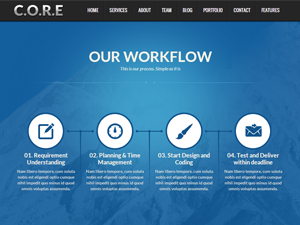
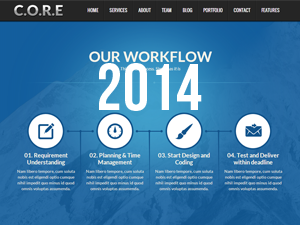
mix
meta property for facebook index;
responsive view;
menu style changes;
home page test template;

Changed region(s): [[0.33, 0.28, 0.69, 0.4978]]

diff --git a/style.css b/style.css
@@ -1,5 +1,5 @@
 /*
-Theme Name: Core
+Theme Name: GMIC Beijing 2014
 Theme URI: http://buddhathemes.com/themes/core
 Author: the DesignThemes team
 Author URI: http://themeforest.net/user/designthemes
@@ -48,7 +48,7 @@ Text Domain: core
 	#home h5 a {color:#fff;}
 	#home h5 a:hover {color: #e96666;}
 	#home .main-title { padding-bottom:30px; margin-bottom:60px; }
-	#home .main-title h2 {font-size:20px;margin-bottom:6px;}
+	#home .main-title h2 {font-size:20px;margin-bottom:6px; display:none;}
 	#home .main-title {margin-top:8px;padding-bottom: 8px;margin-bottom:16px;float:none;}
 	
 	.sub-title { width:100%; padding-bottom:10px; margin-bottom:20px; margin-top:50px; float:left; clear:both; }
@@ -377,7 +377,7 @@ Text Domain: core
 	#main-nav ul { zoom:1; }	
 	#main-nav ul { float:right; margin:0px; padding:0px; }
 	#main-nav ul li { display:inline; float:left; margin:0px; padding:0px 2px 0px 0px; height:55px; background:url(images/menu-splitter.png) right repeat-y; position:relative; }
-	#main-nav ul li a { font-size:14px; line-height:58px; padding:0px 9px; margin:0px; float:left; text-transform:uppercase; color:#ffffff; }
+	#main-nav ul li a { font-size:12px; line-height:58px; padding:0px 9px; margin:0px; float:left; text-transform:uppercase; color:#ffffff; }
 	#main-nav ul li:last-child { background:none; }
 	#main-nav ul li span { transition: all .3s linear; -moz-transition: all .3s linear; -o-transition: all .3s linear; -webkit-transition: all .3s linear; width:0; height:0; border-left:6px solid transparent; border-right:6px solid transparent; position:absolute; left:0; right:0; text-align:center; bottom:0; margin:0 auto;  }
 	#main-nav ul li:hover span { border-bottom:6px solid #1461a2; }
@@ -386,7 +386,8 @@ Text Domain: core
 	#main-nav ul > li.current_page_item:hover > a { color:#ffffff; }
 	#main-nav ul > li:hover > a { color:#1461a2; }
 	#main-nav ul li#menu-item-960 { background-color: #4fc29f; }
-	#main-nav ul li#menu-item-5989 {background-color: #4fc29f;}
+	#main-nav ul li#menu-item-5989 {background-color: #ffc956;}
+	#main-nav ul li#menu-item-5989 a {padding: 0 22px 0 22px; font-size:16px;color:#000;}
 	#main-nav ul li#menu-item-960 a, #main-nav ul li#menu-item-2838 a, #main-nav ul li#menu-item-1805 a { color: #fff; }
 	#main-nav ul li#menu-item-2838 {background-color: #1c879b;}
 	#main-nav ul li#menu-item-1805 {background-color: #317dbe;}
@@ -1138,3 +1139,9 @@ border-top: 0px solid white;
 table.transparent {background-color:transparent; border: 0px;}
 table.transparent td {background-color:transparent; border: 0px; padding:0px;}
 #blog-content .column.one-half.last {width: 420px;padding-left: 30px;}
+.home #media iframe {display:none;}
+#guide #primary a.button {padding-left:0px; padding-right:0px; width:100%; margin:0;} 
+.page-id-6862 #header {display:none;}
+.page-id-6862 #guide .hr-invisible {display:none;}
+.page-id-6862 #guide .main-title {display:none;}
+.page-id-6665 .main-title {display:none;}

diff --git a/responsive.css b/responsive.css
@@ -10,9 +10,12 @@
     @media only screen and (min-width:768px) and (max-width:959px) {
 		
 		.container { width:748px; }
+		#blog-content .column.one-half.last {width:360px; padding:0;}
 		
 		/*----*****---- << Header >> ----*****----*/
 		#main-nav ul li a { padding:0px 10px; font-size:14px; }
+		
+	#main-nav ul li#menu-item-5989 a {padding: 0 8px 0 8px; font-size:14px;}
 		
 		/*----*****---- << Home >> ----*****----*/
 		.rounded-icon span { width:88px; height:88px; max-width:88px; max-height:88px; border-radius:88px; }		
@@ -91,6 +94,8 @@
 		font-size: 11px;
 	}
 	#main-nav {width:74%;}
+	.page-id-6862 #footer {display:none;}
+	.page-id-6862 .content .container {margin-top:0px;}
  }
 
 	/*----*****---- << Mobile (Landscape) >> ----*****----*/	
@@ -327,7 +332,7 @@
 		.mobile-menu { display:block; }
 		#main-nav ul { display:none; }
 		
-		.container { width:200px; }		
+		.container { }		
 		
 		/*----*****---- << Headings >> ----*****----*/
 		.main-title h1, .main-title h2, .sub-title h1, .sub-title h2 { font-size:26px; }	

diff --git a/tpl-home.php b/tpl-home.php
@@ -1,0 +1,146 @@
+<?php /*Template Name: Home Template*/?>
+<?php get_header();?>
+<?php global $mytheme_shadow;
+	  $mytheme_menu = array( "5" => "home", "394" => "speakers", "1836" => "compete-gmic", "940" => "program", "941" => "events", "8" => "media", "1097" => "sponsor", "554" => "register-form");
+	  if(!empty($mytheme_menu)):
+	  foreach( $mytheme_menu as $key => $value ): ?>
+          <?php echo "<!-- ** $value Content** -->";
+          	
+		  
+		  		$current_page_template = get_post_meta($key, '_wp_page_template', true );
+				$mytheme_shadow = false;
+				$bg = "";
+				$pattern="";
+				
+				#Article BG Style
+				$article_bg_type = "";
+				$article_bg_pattern = "";
+				
+				if( $current_page_template == "default" ):
+					$general_settings = get_post_meta($key,'_tpl_default_settings',TRUE);
+					$general_settings = is_array($general_settings) ? $general_settings  : array();
+				
+				elseif( $current_page_template == "tpl-blog.php" ):
+					$general_settings = get_post_meta($key,'_tpl_blog_settings',TRUE);
+					$general_settings = is_array($general_settings) ? $general_settings  : array();
+				
+				elseif( $current_page_template == "tpl-portfolio.php" ):
+					$general_settings = get_post_meta($key,'_tpl_portfolio_settings',TRUE);
+					$general_settings = is_array($general_settings) ? $general_settings  : array();
+				endif;
+				
+				$custom_style = 'style="';
+				
+				#Font Style Settings
+				$set_font = isset( $general_settings['font-settings'] ) ? $general_settings['font-settings'] : NULL;
+				$bg .= isset( $set_font ) ? " custom-font-color " : "";
+				if( $set_font  && isset($general_settings['page-font-color']) ):
+					$custom_style .="color:".$general_settings['page-font-color'];
+				endif;
+				
+				$anchor_colors = "";
+				if( $set_font && isset($general_settings['page-primary-color']) ):
+					$anchor_colors .=  "data-for-primary-color = '".$general_settings['page-primary-color']."'";
+				endif;
+
+				if( $set_font && isset($general_settings['page-secondary-color']) ):
+					$anchor_colors .=  "data-for-secondary-color = '".$general_settings['page-secondary-color']."'";
+				endif;
+
+				if( $set_font && isset($general_settings['page-title-color']) ):
+					$anchor_colors .=  "data-for-title-color = '".$general_settings['page-title-color']."'";
+				endif;
+				
+				
+				#Font Style Settings End
+				
+				
+				#Article BG Style
+				$page_bg_type = isset( $general_settings['page-bg-type'] ) ? $general_settings['page-bg-type'] : NULL;
+				
+				if( $page_bg_type ):
+					if( "bg-patterns" == $page_bg_type ):
+					
+						$page_bg_pattern = isset( $general_settings['page-bg-pattern'] ) ? $general_settings['page-bg-pattern'] : NULL;
+						if( !empty($page_bg_pattern) ):
+							$url = IAMD_FW_URL.'theme_options/images/pattern/bg-patterns/'.$page_bg_pattern;
+							$custom_style .= 'background-image: url('.$url.');';
+							$custom_style .= isset( $general_settings['page-bg-pattern-repeat'] ) ?' background-repeat:'.$general_settings['page-bg-pattern-repeat'].';' : "";
+						endif;
+						
+						if( !array_key_exists('disable-page-bg-pattern-color',$general_settings) && array_key_exists('page-bg-pattern-color',$general_settings) ):
+							$color = hex2rgb( $general_settings['page-bg-pattern-color']);
+							
+							$custom_style .= isset( $general_settings['page-bg-pattern-opacity'] ) ?
+									 " background-color:rgba($color[0],$color[1],$color[2],".$general_settings['page-bg-pattern-opacity'].");" :
+									 " background-color:".$general_settings['page-bg-pattern-color'].";";
+						endif;
+						
+					elseif( "bg-custom" == $page_bg_type ):
+						$page_bg_pattern = isset( $general_settings['page-custom-bg'] ) ? $general_settings['page-custom-bg'] : NULL;
+						if( !empty($page_bg_pattern) ):
+							$custom_style .= 'background-image: url('.$page_bg_pattern.');';
+							$custom_style .= isset( $general_settings['page-custom-bg-repeat'] ) ?' background-repeat:'.$general_settings['page-custom-bg-repeat'].';' : "";
+							$custom_style .= isset( $general_settings['page-custom-bg-position'] ) ?' background-position:'.$general_settings['page-custom-bg-position'].';' : "";
+						endif;
+						
+						if( !array_key_exists('disable-page-custom-bg-color',$general_settings) && array_key_exists('page-custom-bg-color',$general_settings) ):
+							$color = hex2rgb( $general_settings['page-custom-bg-color']);
+							$custom_style .= isset( $general_settings['page-custom-bg-opacity'] ) ?
+									 " background-color:rgba($color[0],$color[1],$color[2],".$general_settings['page-custom-bg-opacity'].");" :
+									 " background-color:".$general_settings['page-custom-bg-color'].";";
+						endif;
+						
+					endif;
+				endif;
+				#Article BG Style
+				
+				$custom_style .= '"';
+				
+				
+				#Style Settings
+				$mytheme_shadow = isset($general_settings['bottm-shadow']) ? true : false;
+				$bg .= isset( $general_settings['dark-bg']) ? "dark-bg": "";
+				$pattern = isset( $general_settings['apply-pattern']) && isset( $general_settings['pattern'] )? $general_settings['apply-pattern'] :NULL;
+				if($pattern):
+					$url = IAMD_FW_URL.'theme_options/images/pattern/'.$general_settings['pattern'];
+					$pattern =  'style="background-image: url('.$url.')"';
+				endif;?>
+                 
+          <article id="<?php echo $value;?>" class="content <?php echo $bg;?>" <?php echo $custom_style.$anchor_colors;?> >
+          		<div class="pattern" <?php echo $pattern;?>>
+                		<!-- **Container** -->
+                        <div class="container">
+                        		<?php query_posts(array( 'p'=>$key, 'post_type' => array('post', 'page' ,'portfolio'), 'posts_per_page'=> 1 ));
+									  while( have_posts() ):
+									  	the_post();
+										$template = get_post_meta( $post->ID, '_wp_page_template', true );
+                                       
+										if($template == "tpl-portfolio.php"):
+											get_portfolio_page_content($post->ID);
+										
+										elseif( $template == "tpl-blog.php"):
+											get_blog_page_content($post->ID);
+										
+										elseif($template == "default"):
+											$tpl_default_settings = get_post_meta($post->ID,'_tpl_default_settings',TRUE);
+											$tpl_default_settings = is_array($tpl_default_settings) ? $tpl_default_settings  : array();
+										
+											echo '<hgroup class="main-title">';
+											echo '<h2>'.get_the_title().'</h2>';
+											if(isset($tpl_default_settings['sub-title']) && !empty($tpl_default_settings['sub-title'])):
+											echo '<h6>'.$tpl_default_settings['sub-title'].'</h6>';
+											endif;
+											echo '</hgroup>';
+											the_content();
+										endif;	
+									  endwhile; ?>
+                        </div><!-- **Container - End** -->
+                </div>
+                <?php if($mytheme_shadow):
+						echo '<div class="shadow"> </div>';
+					  endif;?>
+          </article><?php echo "<!-- ** $value Content End	** -->";?>
+<?php endforeach; ?>
+<?php endif;?>
+<?php get_footer();?>

diff --git a/header.php b/header.php
@@ -11,32 +11,10 @@
 	
 	<meta name="description" content="">
 	<meta name="author" content="">
-	
-    <meta property="og:title" content="<?php 
-    if ( is_home() ) {
-    mytheme_public_title();// This is a homepage
-} else {
-    the_title();// This is not a homepage
-}
+	<script type="text/javascript">
+		window.qbaka || (function(a,c){a.__qbaka_eh=a.onerror;a.__qbaka_reports=[];a.onerror=function(){a.__qbaka_reports.push(arguments);if(a.__qbaka_eh)try{a.__qbaka_eh.apply(a,arguments)}catch(b){}};a.onerror.qbaka=1;a.qbaka={report:function(){a.__qbaka_reports.push([arguments, new Error()]);},customParams:{},set:function(a,b){qbaka.customParams[a]=b},exec:function(a){try{a()}catch(b){qbaka.reportException(b)}},reportException:function(){}};var b=c.createElement("script"),e=c.getElementsByTagName("script")[0],d=function(){e.parentNode.insertBefore(b,e)};b.type="text/javascript";b.async=!0;b.src="//cdn.qbaka.net/reporting.js";"[object Opera]"==a.opera?c.addEventListener("DOMContentLoaded",d):d();qbaka.key="c5b79fe685e95872747d18cee9039727"})(window,document);qbaka.options={autoStacktrace:1,trackEvents:1};
+	</script>
     
-    ?>" />
-	<meta property="og:type" content="article" />
-	<meta property="og:url" content="<?php 
-	if ( is_home() ) {
-    echo home_url(); // This is a homepage
-} else {
-    the_permalink();// This is not a homepage
-}
-	 ?>" />
-	<meta property="og:image" content="<?php $image = wp_get_attachment_image_src ( get_post_thumbnail_id ( $post_id ), 'single-post-thumbnail' ); echo $image[0]; ?>" />
-	<meta property="og:site_name" content="<?php mytheme_public_title();?>" />
-	<meta property="og:description" content="<?php 
-	if ( is_home() ) {
-    echo get_post_meta(5, 'page-excerpt', true);// This is a homepage
-} else {
-    echo get_the_excerpt();// This is not a homepage
-}
-	 ?>" />
 	<meta property="fb:admins" content="670979947" />
     <meta property="fb:app_id" content="241568569321866" />
     <!--[if lt IE 9]>
